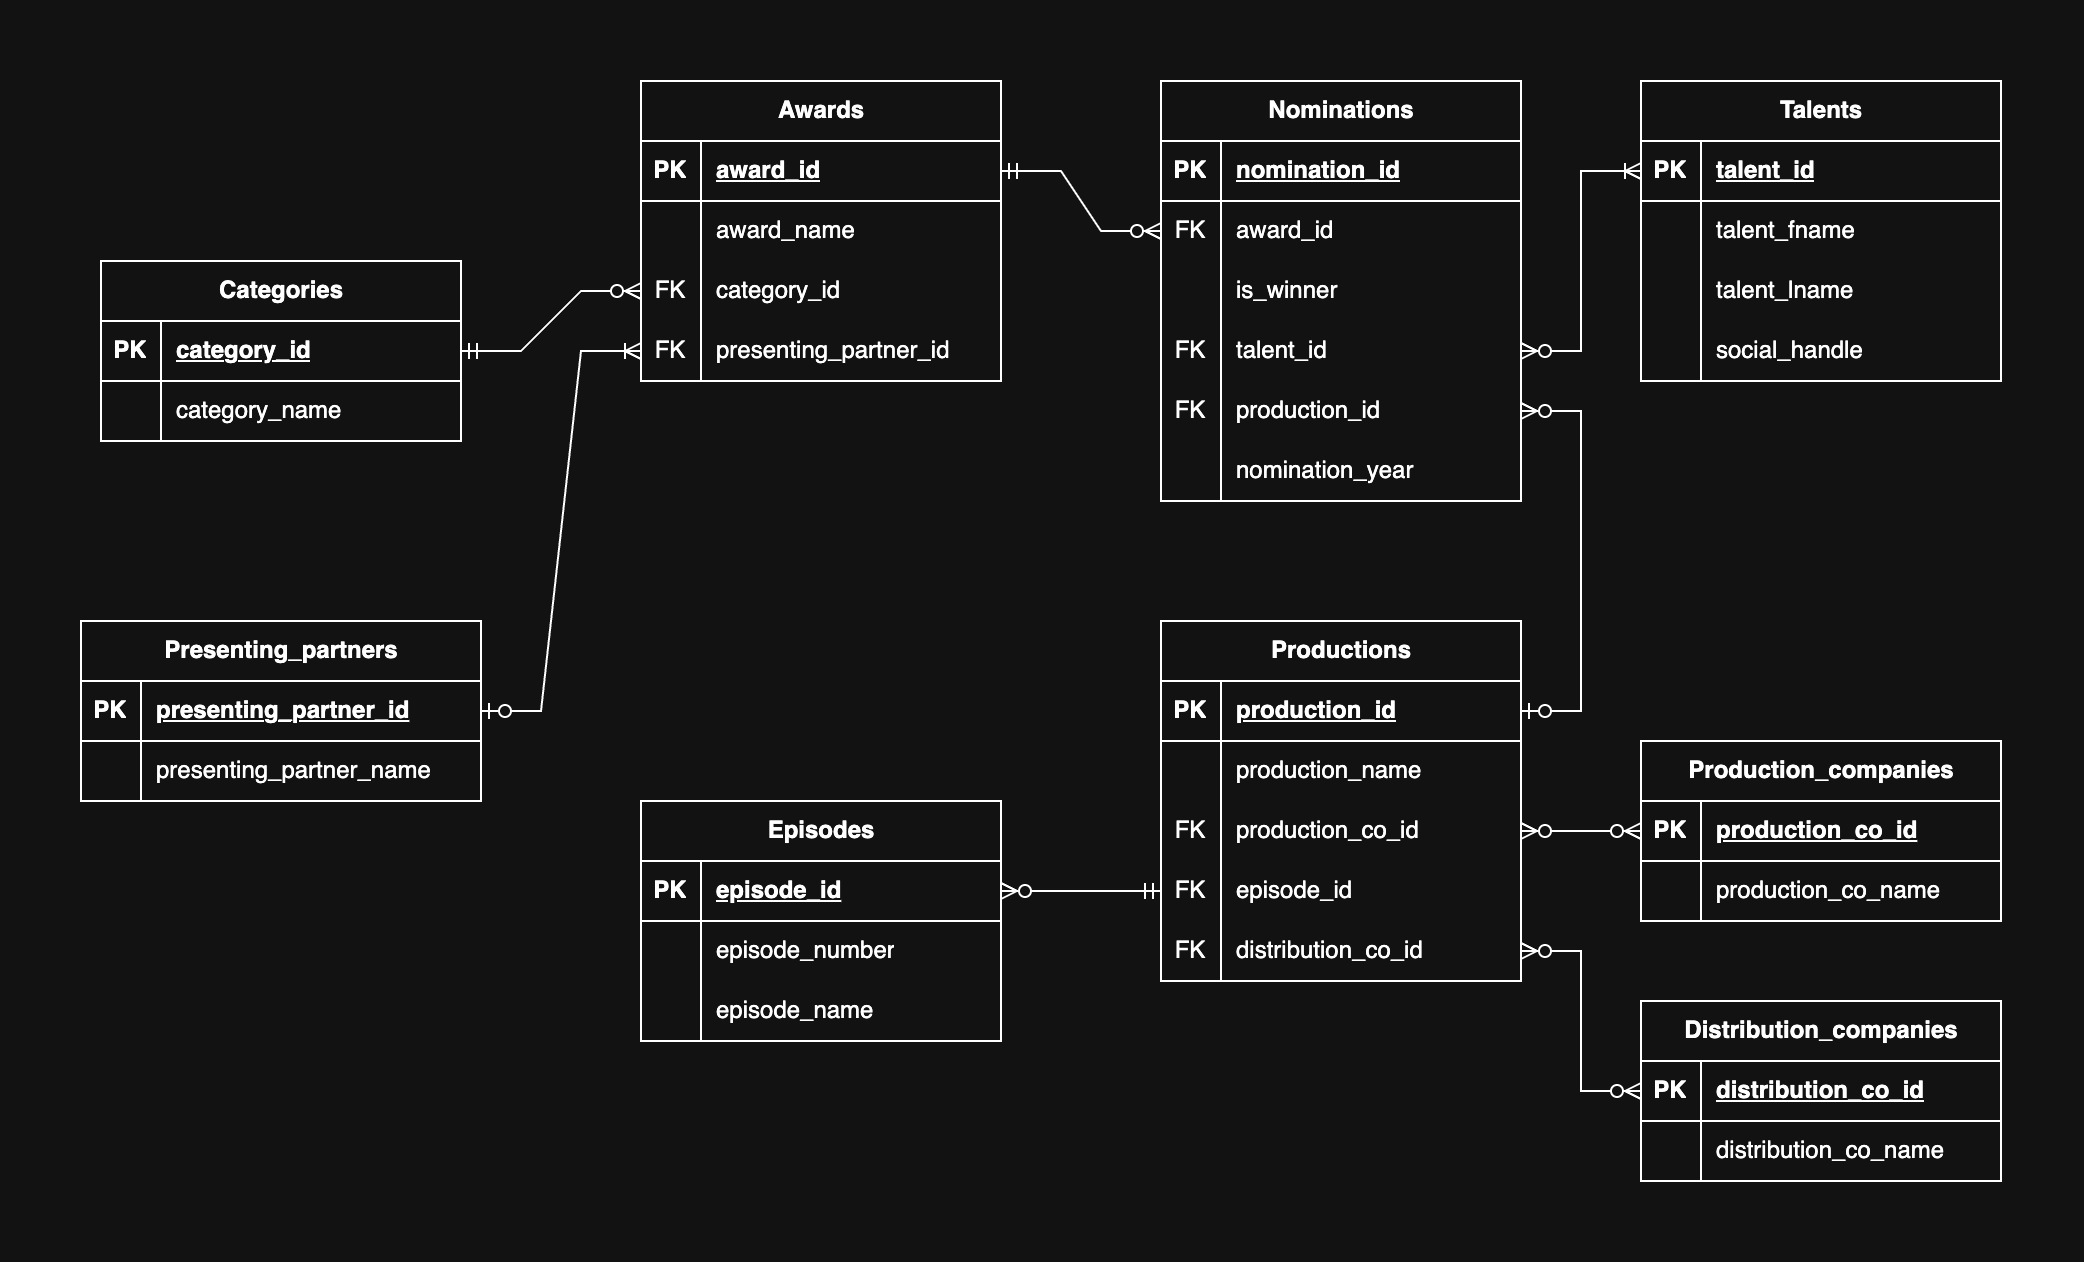
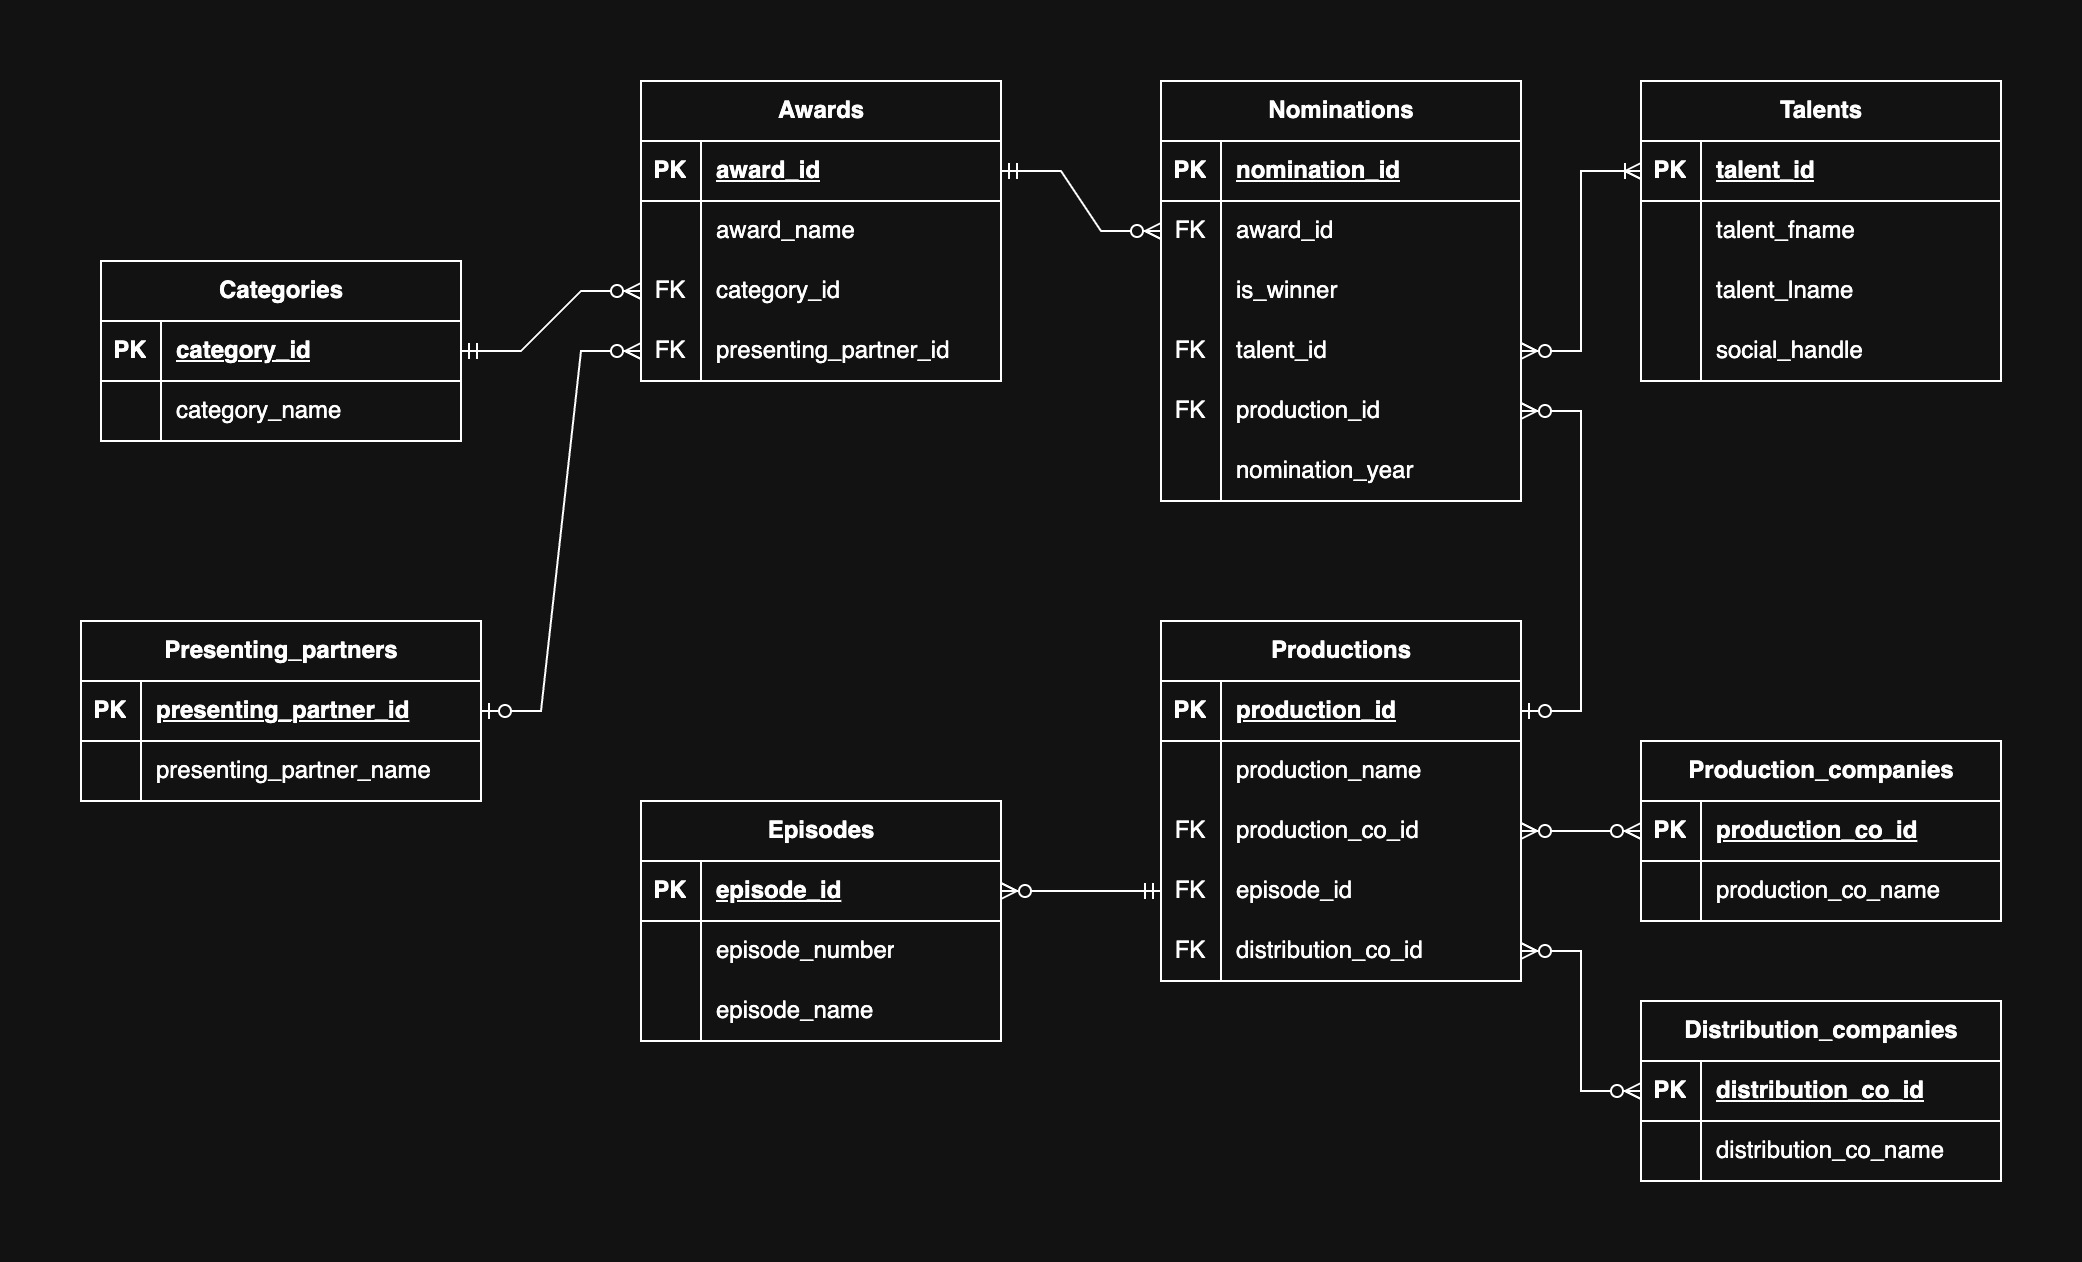
update ERD image, update readme file, update seed data file

diff --git a/README.md b/README.md
@@ -7,7 +7,7 @@
 - An award has zero or many nominations.
 - A winner must be decided upon nominees.
 - An award has zero or one presenting partner.
-- A presenting partner can present one or many awards.
+- A presenting partner can present zero or many awards.
 - A nominee or a winner can be either a talent or a production.
 - When a talent is nominated, there will be zero or one production associated.
 - When a production is nominated, there will be one or many talents associated. 
